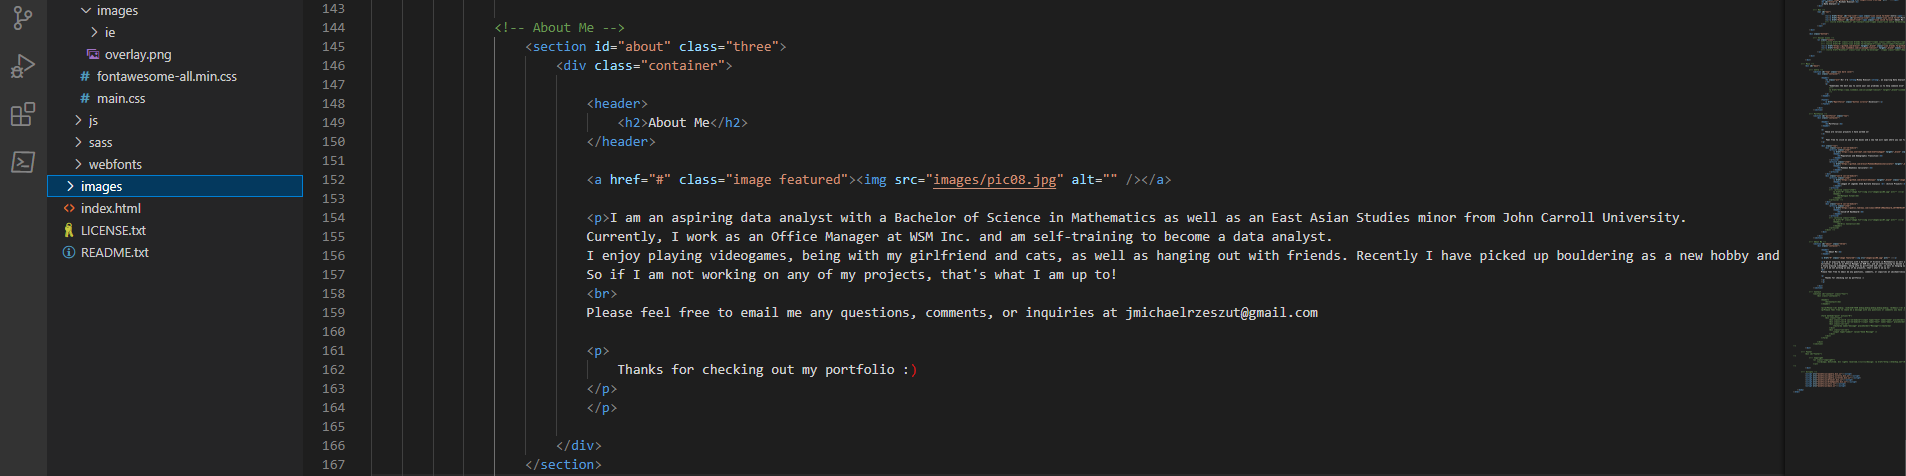
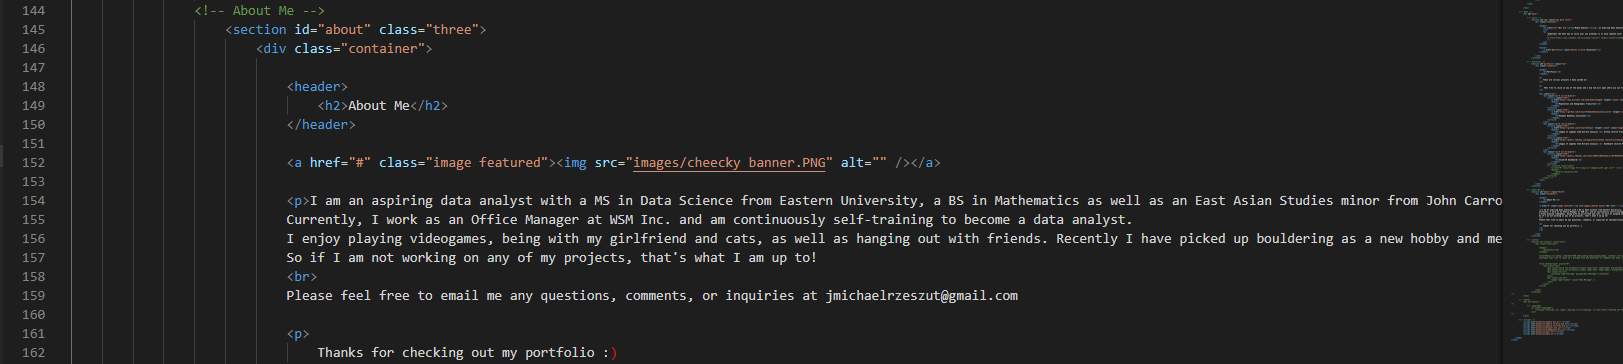
Add files via upload

diff --git a/index.html b/index.html
@@ -112,15 +112,15 @@
 									<article class="item">
 										<a href="https://github.com/mrezut/Zhonyas" target="_blank" class="image fit"><img src="images/LoL.jpg" alt="" /></a>
 										<header>
-											<h3>League of Legends Item Winrate Analysis <br> (Active Project)</h3>
+											<h3>League of Legends Item Winrate Analysis <br> Github (Active Project)</h3>
 										</header>
 									</article>
-									<!-- <article class="item">
-										<a href="#" class="image fit"><img src="images/pic05.jpg" alt="" /></a>
+									<article class="item">
+										<a href="https://public.tableau.com/app/profile/mikey.rzeszut/viz/Zhonyas_Dashboard/ZhonyasDashboard?publish=yes" target="_blank" class="image fit"><img src="images/LoL Items.jpg" alt="" /></a>
 										<header>
-											<h3>Natoque Vitae</h3>
+											<h3>League of Legends Item Winrate Analysis <br> Dashboard (Active Project)</h3>
 										</header>
-									</article> -->
+									</article>
 								</div>
 								<div class="col-4 col-12-mobile">
 									<article class="item">
@@ -151,8 +151,8 @@
 
 							<a href="#" class="image featured"><img src="images/cheecky banner.PNG" alt="" /></a>
 
-							<p>I am an aspiring data analyst with a Bachelor of Science in Mathematics as well as an East Asian Studies minor from John Carroll University. 
-							Currently, I work as an Office Manager at WSM Inc. and am self-training to become a data analyst. 
+							<p>I am an aspiring data analyst with a MS in Data Science from Eastern University, a BS in Mathematics as well as an East Asian Studies minor from John Carroll University. 
+							Currently, I work as an Office Manager at WSM Inc. and am continuously self-training to become a data analyst. 
 							I enjoy playing videogames, being with my girlfriend and cats, as well as hanging out with friends. Recently I have picked up bouldering as a new hobby and means of exercise.
 							So if I am not working on any of my projects, that's what I am up to! 
 							<br>

diff --git a/assets/css/main.css b/assets/css/main.css
@@ -2252,7 +2252,7 @@ input, select, textarea {
 			}
 
 			#main > section.two {
-				background-color: #f5fafa;
+				background-color: #faf5f9;
 			}
 
 			#main > section.three {
